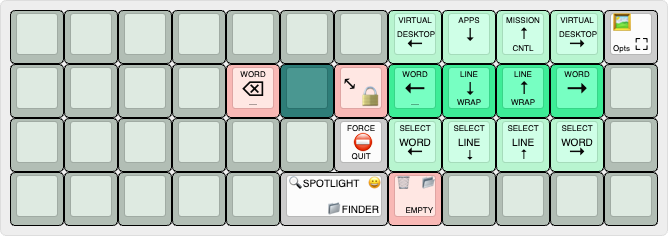
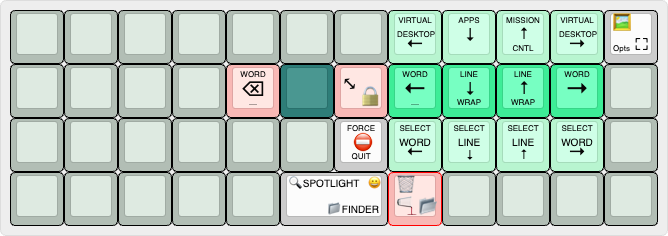
DOOM: Added tap dance on Esc key: Esc on tap, y on Tap+Hold, n on Hold; macOS: swapped tap dances on Trash key (right thumb); updated docs

Changed region(s): [[0.5689, 0.7119, 0.6587, 0.9195], [0.5988, 0.9492, 0.6587, 0.9788]]

diff --git a/src/core/keymap.c b/src/core/keymap.c
@@ -65,7 +65,7 @@ const uint16_t PROGMEM keymaps[][MATRIX_ROWS][MATRIX_COLS] = {
 
 /* Classic Doom Layer
  * ┌─────────┬─────────┬─────────┬─────────┬─────────┬─────────┬─────────┬─────────┬─────────┬─────────┬─────────┬─────────┐
- * │   ESC   │         │         │    ↑    │         │         │         │         │Pointer ↑│         │         │ ⌫  ⌫L ⌫w│
+ * │ESC n y n│         │         │    ↑    │         │         │         │         │Pointer ↑│         │         │ ⌫  ⌫L ⌫w│
  * ├─────────┼─────────┼─────────┼─────────┼─────────┼─────────┼─────────┼─────────┼─────────┼─────────┼─────────┼─────────┤
  * │  ⇥   ⇤  │ Strife ←│    ←    │    ↓    │    →    │ Strife →│ Strife ←│Pointer ←│Pointer ↓│Pointer →│ Strife →│    ↵    │
  * ├─────────┼─────────┼─────────┼─────────┼─────────┼─────────┼─────────┼─────────┼─────────┼─────────┼─────────┼─────────┤
@@ -76,13 +76,12 @@ const uint16_t PROGMEM keymaps[][MATRIX_ROWS][MATRIX_COLS] = {
  */
 #ifdef MOUSEKEY_ENABLE
 [_DOOM] = LAYOUT_planck_mit(
-    KC_ESC, ____,        ____,    KC_UP,       ____,    ____,        ____,        ____,       MS_UP,   ____,    ____,        BSPC,
-    TAB,    STRAFE_LEFT, KC_LEFT, KC_DOWN,     KC_RGHT, STRAFE_RGHT, STRAFE_LEFT, MS_LEFT,    MS_DOWN, MS_RGHT, STRAFE_RGHT, ENT,
-    ____,   ____,        ____,    STRAFE_DOWN, ____,    ____,        ____,        MS_WHLR,    MS_WHLU, MS_WHLD, MS_WHLL,     ____,
-    BASE,   MUTE,        VOLD,    VOLU,        MS_BTN1,     SPC_LSFT,             RCLK_UPPER, HOME,    PGDN,    PGUP,        END
+    DOOM_ESC, ____,        ____,    KC_UP,       ____,    ____,        ____,        ____,       MS_UP,   ____,    ____,        BSPC,
+    TAB,      STRAFE_LEFT, KC_LEFT, KC_DOWN,     KC_RGHT, STRAFE_RGHT, STRAFE_LEFT, MS_LEFT,    MS_DOWN, MS_RGHT, STRAFE_RGHT, ENT,
+    ____,     ____,        ____,    STRAFE_DOWN, ____,    ____,        ____,        MS_WHLR,    MS_WHLU, MS_WHLD, MS_WHLL,     ____,
+    BASE,     MUTE,        VOLD,    VOLU,        MS_BTN1,      KC_SPC,              RCLK_UPPER, HOME,    PGDN,    PGUP,        END
 ),
 #endif
-
 
 /* Keyboard Settings & Adjustments: Hold Left Thumb Key, Then Right Thumb Key
  * ┌─────────┬─────────┬─────────┬─────────┬─────────┬─────────┬─────────┬─────────┬─────────┬─────────┬─────────┬─────────┐

diff --git a/src/features/rgb.c b/src/features/rgb.c
@@ -11,6 +11,9 @@ static caps_lock_t caps_lock = { false, 0 };
 // RGB preview mode state w/ timer
 rgb_preview_t rgb_preview = { false, 0 };
 
+// RGB EEPROM usage toggle
+bool rgb_eeprom_state = false;
+
 // ─────────────────────────────────────────────────────────────
 // RGB Helper Functions
 // ─────────────────────────────────────────────────────────────
@@ -595,7 +598,7 @@ bool rgb_matrix_indicators_user(void) {
 #endif
         /* Classic Doom Layer
          * ┌─────────┬─────────┬─────────┬─────────┬─────────┬─────────┬─────────┬─────────┬─────────┬─────────┬─────────┬─────────┐
-         * │   ESC   │         │         │    ↑    │         │         │         │         │Pointer ↑│         │         │ ⌫  ⌫L ⌫w│
+         * │ESC n y n│         │         │    ↑    │         │         │         │         │Pointer ↑│         │         │ ⌫  ⌫L ⌫w│
          * ├─────────┼─────────┼─────────┼─────────┼─────────┼─────────┼─────────┼─────────┼─────────┼─────────┼─────────┼─────────┤
          * │  ⇥   ⇤  │ Strife ←│    ←    │    ↓    │    →    │ Strife →│         │Pointer ←│Pointer ↓│Pointer →│ Strife →│    ↵    │
          * ├─────────┼─────────┼─────────┼─────────┼─────────┼─────────┼─────────┼─────────┼─────────┼─────────┼─────────┼─────────┤

diff --git a/src/tap_dances/td_doom.c b/src/tap_dances/td_doom.c
@@ -1,0 +1,48 @@
+#include "td_doom.h"
+#include "tap_dance_actions.h"
+
+// ─────────────────────────────────────────────────────────────
+// Doom Classic Tap Dance Function Definitions
+// ─────────────────────────────────────────────────────────────
+
+// ──────────────────────────────
+// TD_DOOM_ESC          Esc   y n
+// ──────────────────────────────
+
+// Create static `b_tap_dance` for TD_DOOM_ESC
+TD_DEF(doom_esc);
+
+// Send the appropriate Vim command for TD_DOOM_ESC
+void doom_esc_finished(tap_dance_state_t *state, void *user_data) {
+    TD_STATE_SET(doom_esc);
+    switch (TD_STATE(doom_esc)) {
+        case TD_SINGLE_HOLD: // fallthru
+            register_code16(KC_N); // N for “no”
+            break;
+        case TD_DOUBLE_HOLD: // `y` for “yes”
+            register_and_update(KC_Y);
+            break;
+        case TD_TRIPLE_TAP:        tap_code16(KC_ESC);          // fallthru
+        case TD_DOUBLE_TAP:
+        case TD_DOUBLE_SINGLE_TAP: tap_code16(KC_ESC);          // fallthru
+        case TD_SINGLE_TAP:        register_and_update(KC_ESC);
+                                   break;
+        default: break;
+    }
+}
+
+// Release any keys pressed by TD_DOOM_ESC and reset the state
+void doom_esc_reset(tap_dance_state_t *state, void *user_data) {
+    switch (TD_STATE(doom_esc)) {
+        case TD_SINGLE_HOLD: unregister_code16(KC_N); break;
+        case TD_DOUBLE_HOLD: unregister_code16(KC_Y); break;
+        case TD_TRIPLE_TAP:
+        case TD_DOUBLE_TAP:
+        case TD_DOUBLE_SINGLE_TAP:
+        case TD_SINGLE_TAP:  unregister_code16(KC_ESC); break;
+        default: break;
+    }
+    TD_RESET(doom_esc);
+}
+
+

diff --git a/src/tap_dances/tap_dance_actions.c b/src/tap_dances/tap_dance_actions.c
@@ -2,6 +2,7 @@
 #include "td_chars.h"
 #include "td_control.h"
 #include "td_digits.h"
+#include "td_doom.h"
 #include "td_media.h"
 #include "td_numpad.h"
 #include "td_programming.h"
@@ -169,6 +170,11 @@ tap_dance_action_t tap_dance_actions[TD_COUNT] = {
     [TD_FS_OS]       = ACTION_TAP_DANCE_FN_ADVANCED(NULL, fs_os_finished,       fs_os_reset),
     [TD_SCRNSHOT_OS] = ACTION_TAP_DANCE_FN_ADVANCED(NULL, scrnshot_os_finished, scrnshot_os_reset),
     [TD_DEL_OS]      = ACTION_TAP_DANCE_FN_ADVANCED(NULL, del_os_finished,      del_os_reset),
+
+    // ─────────────────────────────────────────────────────────────
+    // DOOM
+    // ─────────────────────────────────────────────────────────────
+    [TD_DOOM_ESC] = ACTION_TAP_DANCE_FN_ADVANCED(NULL, doom_esc_finished, doom_esc_reset),
 };
 
 /* Return an integer that corresponds to what kind of tap dance should be executed.

diff --git a/src/tap_dances/td_system.c b/src/tap_dances/td_system.c
@@ -87,7 +87,7 @@ void scrnshot_os_reset(tap_dance_state_t *state, void *user_data) {
 }
 
 // ──────────────────────────────
-// TD_DEL_OS             ␡ Empty🗑
+// TD_DEL_OS       ␡ Empty🗑 Open🗑
 // ──────────────────────────────
 
 // Create static `del_os_tap_dance` for TD_DEL_OS
@@ -99,12 +99,12 @@ void del_os_finished(tap_dance_state_t *state, void *user_data) {
     TD_STATE_SET(del_os);
     switch (TD_STATE(del_os)) {
         case TD_SINGLE_TAP: delete_files_macro(); break;
-        case TD_DOUBLE_TAP:
+        case TD_SINGLE_HOLD:
             if (current_os == OS_MACOS) {
                 open_trash_macos_macro();
             }
             break;
-        case TD_SINGLE_HOLD: // Empty Trash
+        case TD_DOUBLE_HOLD: // Empty Trash
             if (current_os == OS_MACOS) {
                 tap_and_update(LGUI(S(KC_BSPC)));
             }

diff --git a/src/tap_dances/tap_dance_actions.h b/src/tap_dances/tap_dance_actions.h
@@ -151,6 +151,8 @@ enum {                 // │  Tap   │ 2xTap  │Tap+Hold│  Hold  │ Notes
     TD_FS_OS,          // │FullScrn│WinScrnS│        │Lock Mac│
     TD_SCRNSHOT_OS,    // │   ▣    │        │Options │   ⛶    │ Partial screenshot on Tap; Screenshot Toolbar, all options on Tap+Hold; Full screenshot on Hold
     TD_DEL_OS,         // │Del File│  🗑 📂 │        │Empty 🗑│ Delete file on Tap; Open trash folder in Finder on Tap+Hold, Empty trash can on Hold
+                       // │        │        │        │        │
+    TD_DOOM_ESC,       // │  Esc   │        │   y    │   n    │ DOOM: `Esc` on tap, `n` on Hold, `y` on Tap+Hold
 
     TD_COUNT // Sentinel value for tap_dance_actions array
 };

diff --git a/src/features/leader.c b/src/features/leader.c
@@ -5,6 +5,7 @@
 #include "leader.h"
 #include "utils.h"
 #include "src/core/keymap.h"
+#include "src/features/rgb.h"
 #include "src/macros/mac_special_char.h"
 #include "src/macros/mac_surround.h"
 #include "src/macros/mac_programming.h"
@@ -535,6 +536,9 @@ static bool rgb_sequences(void) {
         rgb_matrix_mode_noeeprom(RGB_MATRIX_DIGITAL_RAIN);
     } else if (leader_sequence_two_keys(RGB_LEADER, KC_T)) { // mnemonic: RGB Toggle on/off
         rgb_matrix_toggle_noeeprom();
+    } else if (leader_sequence_two_keys(RGB_LEADER, KC_E)) { // mnemonic: Toggle saving RGB settings to EEPROM
+        rgb_eeprom_state = !rgb_eeprom_state;
+        //rgb_matrix_toggle_noeeprom();
     } else {
         return false;
     }

diff --git a/src/features/rgb.h b/src/features/rgb.h
@@ -33,6 +33,8 @@ typedef struct {
 
 extern rgb_preview_t rgb_preview;
 
+extern bool rgb_eeprom_state;
+
 // ─────────────────────────────────────────────────────────────
 // Colors
 // ─────────────────────────────────────────────────────────────

diff --git a/src/tap_dances/td_doom.h b/src/tap_dances/td_doom.h
@@ -1,0 +1,10 @@
+#pragma once
+
+#include QMK_KEYBOARD_H
+
+// ─────────────────────────────
+// Custom Doom Keys
+// ─────────────────────────────
+
+void doom_esc_finished(tap_dance_state_t *state, void *user_data);
+void doom_esc_reset(tap_dance_state_t *state, void *user_data);

diff --git a/src/core/keymap.h b/src/core/keymap.h
@@ -196,6 +196,9 @@
 #define SCRNSHOT_OS TD(TD_SCRNSHOT_OS)
 #define DEL_OS      TD(TD_DEL_OS)
 
+// Doom Classic Keys
+#define DOOM_ESC TD(TD_DOOM_ESC)
+
 /*** Other Keycodes *******************************************/
 
 #define MACOS_EMOJI_MENU LGUI(C(KC_SPC))

diff --git a/README.md b/README.md
@@ -2,7 +2,7 @@
 
 Spacecentricity is a maximalist modal keymap built around a modified Dvorak base, heavy thumb usage, and mirrored layers for navigation, Vim‑style editing, and programming. It emphasizes home-position access to high-frequency characters, movement keys, numbers, symbols, and common programming n-grams through macros and tap dances. Key redundancy provides alternative ways to perform the same actions, helping reduce strain and fatigue.
 
-Because this keymap treats keyboard firmware like a [finite-state machine](https://en.wikipedia.org/wiki/Finite-state_machine), each layer includes its own RGB matrix pattern, making it easy to see which layer is active at a glance. The RGB matrix also indicates active modes such as Caps Lock (blinking red), One-Shot Shift (gold), [Case Modes](#case-modes-temporary-lexical-modes) (neon mint), and [Leader mode](/LEADER.md) (navy blue).
+Because this keymap treats keyboard firmware like a [finite-state machine](https://en.wikipedia.org/wiki/Finite-state_machine), each layer includes its own RGB matrix pattern, making it easy to see which layer or state is active at a glance. The RGB matrix also indicates active modes such as Caps Lock (blinking red), One-Shot Shift (gold), [Case Modes](#case-modes-temporary-lexical-modes) (neon mint), and [Leader](/LEADER.md) sequences (navy blue).
 
 This keymap has an estimated user count of one.
 
@@ -42,19 +42,23 @@ This keymap has an estimated user count of one.
 
 ## Keyboard
 
-The [Inland MK-47](https://www.microcenter.com/product/661264/inland-47-keys-hot-swappable-rgb-wired-mechanical-keyboard) is an affordable **47‑key ortholinear mechanical keyboard** sold by Micro Center and a clone of the [olkb](https://olkb.com/) Planck. Despite its low price, it includes features usually found on enthusiast‑grade boards:
+The [Inland MK-47](https://www.microcenter.com/product/661264/inland-47-keys-hot-swappable-rgb-wired-mechanical-keyboard) is an affordable **47-key ortholinear mechanical keyboard** sold by Micro Center and a clone of the [OLKB](https://olkb.com/) Planck. Despite its low price, it includes features usually reserved for enthusiast-grade boards:
 
 * [QMK-compatible firmware](https://qmk.fm/) (fully programmable)
-* [VIA](https://www.caniusevia.com/) support for on‑the‑fly keymap editing
-* Per‑key RGB lighting
-* Hot‑swappable MX switch sockets (📌 3/5-pin)
-* USB‑C wired connection (💭 Remember when keyboards typically had fixed cords?)
+* [VIA](https://www.caniusevia.com/) support for on-the-fly keymap editing
+* Per-key RGB lighting
+* Hot-swappable MX switch sockets (📌 3/5-pin)
+  * Usable out of the box: preinstalled with linear switches and ABS-like keycaps
+    * 47× Huano Red linear switches
+    * 47× shine-through white keycaps (plus a black 2u "spacebar"), probably ABS plastic
+    * Packed with a funky black corded 90° USB-C to USB-A cable and a keycap puller
+* USB-C wired connection (💭 remember when keyboards typically had fixed cords?)
 
-The MK‑47 has become a popular entry‑level option for people interested in experimenting with custom firmware, unusual layouts, or switch testing without spending much. Its compact footprint also makes it a convenient one‑piece travel or backup board — it even fits neatly inside a Nintendo Switch carrying case, which makes it easy to throw in a bag. Some users also repurpose the Planck form factor as a macropad.
+The MK-47 has become a popular entry point for anyone experimenting with custom firmware, unusual layouts, or switch testing without spending much. Its compact footprint also makes it a convenient one-piece travel or backup board — it even fits neatly inside a Nintendo Switch carrying case, so it's easy to throw in a bag. Some people also repurpose the Planck form factor as a macropad.
 
 ### Availability
 
-The MK‑47 is typically an in‑store Micro Center exclusive, but it’s occasionally available for shipping within the U.S. depending on stock. If you don’t live near a Micro Center, checking eBay and similar marketplaces is often worthwhile, as units show up there fairly regularly.
+The MK‑47 is typically an in‑store Micro Center exclusive, but it’s occasionally available for shipping within the U.S. depending on stock. If you don’t live near a Micro Center, checking eBay and similar marketplaces is often worthwhile, as units show up fairly regularly.
 
 > [!TIP]
 > Not familiar with Planck keyboards? See this brief [video by Jack Humbert](https://www.youtube.com/watch?v=bEPg8kk84gw) introducing the Planck.
@@ -119,8 +123,8 @@ The **bottom‑left corner key** toggles special modes:
 
 | Action | Behavior |
 |--------|----------|
-| Tap | **Mouse** Layer |
-| Hold (≈350 ms or longer) | **Function** layer (`F1`–`F12`) |
+| Tap | Activates [**Mouse**](#mouse) layer |
+| Hold (≈350 ms or longer) | Activates [**Function**](#function-f1f12) layer (`F1`–`F12`) |
 
 This key is not momentary — it switches layers rather than holding them.
 
@@ -375,8 +379,8 @@ The **right‑thumb key** provides quick file‑deletion actions:
 | Action | Behavior |
 |--------|----------|
 | Tap | Delete selected item(s) |
-| Double Tap | Open the Trash folder in Finder |
-| Hold | Empty the Trash (Finder); open clear browser data menu (Firefox, Chromium) |
+| Tap-and-Hold | Empty the Trash (Finder); open clear browser data menu (Firefox, Chromium) |
+| Hold | Open the Trash folder in Finder |
 
 The **top‑right corner key** handles screen-capture shortcuts:
 
@@ -408,11 +412,13 @@ This layer is intended as a secondary fallback mouse input when other pointing d
 An optional compact gaming layer modeled after vanilla _Doom_ (1993), built around a tight movement cluster, dedicated strafing keys, and thumb‑based actions for firing, opening doors, and running. Quick weapon switching is handled through the [**Upper**](#upper-primary-number-layer) layer, and the layout also works as a simple arrows‑plus‑mouse‑keys mode using traditional T‑shaped clusters for general navigation.
 
 > [!IMPORTANT]
-> Tested w/ [Chocolate Doom](https://www.chocolate-doom.org/wiki/index.php/Chocolate_Doom) v3.1.1 but keyboard settings modified for `previous weapon` and `next weapon` using `0` and `1`, respectively.
+> Tested w/ [Chocolate Doom](https://www.chocolate-doom.org/wiki/index.php/Chocolate_Doom) v3.1.1 but keyboard settings modified for `previous weapon` and `next weapon` using `0` and `1`, respectively. It’s also a good idea to enable “Always run” to eliminate the need to continuously hold `Shift`.
 >
 > `RUN:` `chocolate-doom-setup`
 >
-> `GOTO:` `Configure Keyboard` → `More Controls`
+> `GOTO:` `Configure Keyboard` → `Action` → `More Controls`
+>
+> `GOTO:` `Configure Keyboard` → `Misc.` → `Always run`
 
 ## Case Modes: Temporary Lexical Modes
 

diff --git a/CHANGELOG.md b/CHANGELOG.md
@@ -15,11 +15,17 @@
   - [ ] Generalize the layer name from **macOS** to **OS** or **System**, etc.
 - [ ] Reimplement repeat key functionality to work with tap dance (refer to offical [repeat key API](https://docs.qmk.fm/features/repeat_key) to mimic behavior)
   - [ ] Create a temporary mode for repeat and alternative key (timeout after 5 seconds?)
+- [ ] Port this keymap to the [ZSA Voyager](https://www.zsa.io/voyager)
+- [ ] Design two layers, left and right sides, to use 2× Inland MK-47 keyboards as an affordable pseudo split
 
 ### `DONE:`
 - [x] Make a fun vanilla **Doom** layer as an alternative to **Mouse** layer (2026-04/13-MO)
 
 ---
+
+## 2026-08/23-SU
+- **DOOM** → `BUGFIX:` Removed mod-tap `LSFT` for `SPC` key. Fixed responsiveness of door-opening actions possibly regarding MT key issues.
+- **macOS** → Swapped tap dances around on the delete key (right thumb); `Tap+Hold` → Open Trash folder in Finder, `Hold` → Empty Trash.
 
 ## 2026-08/20-TH
 - Added more Markdown files for `src` project path and subdirectories.
